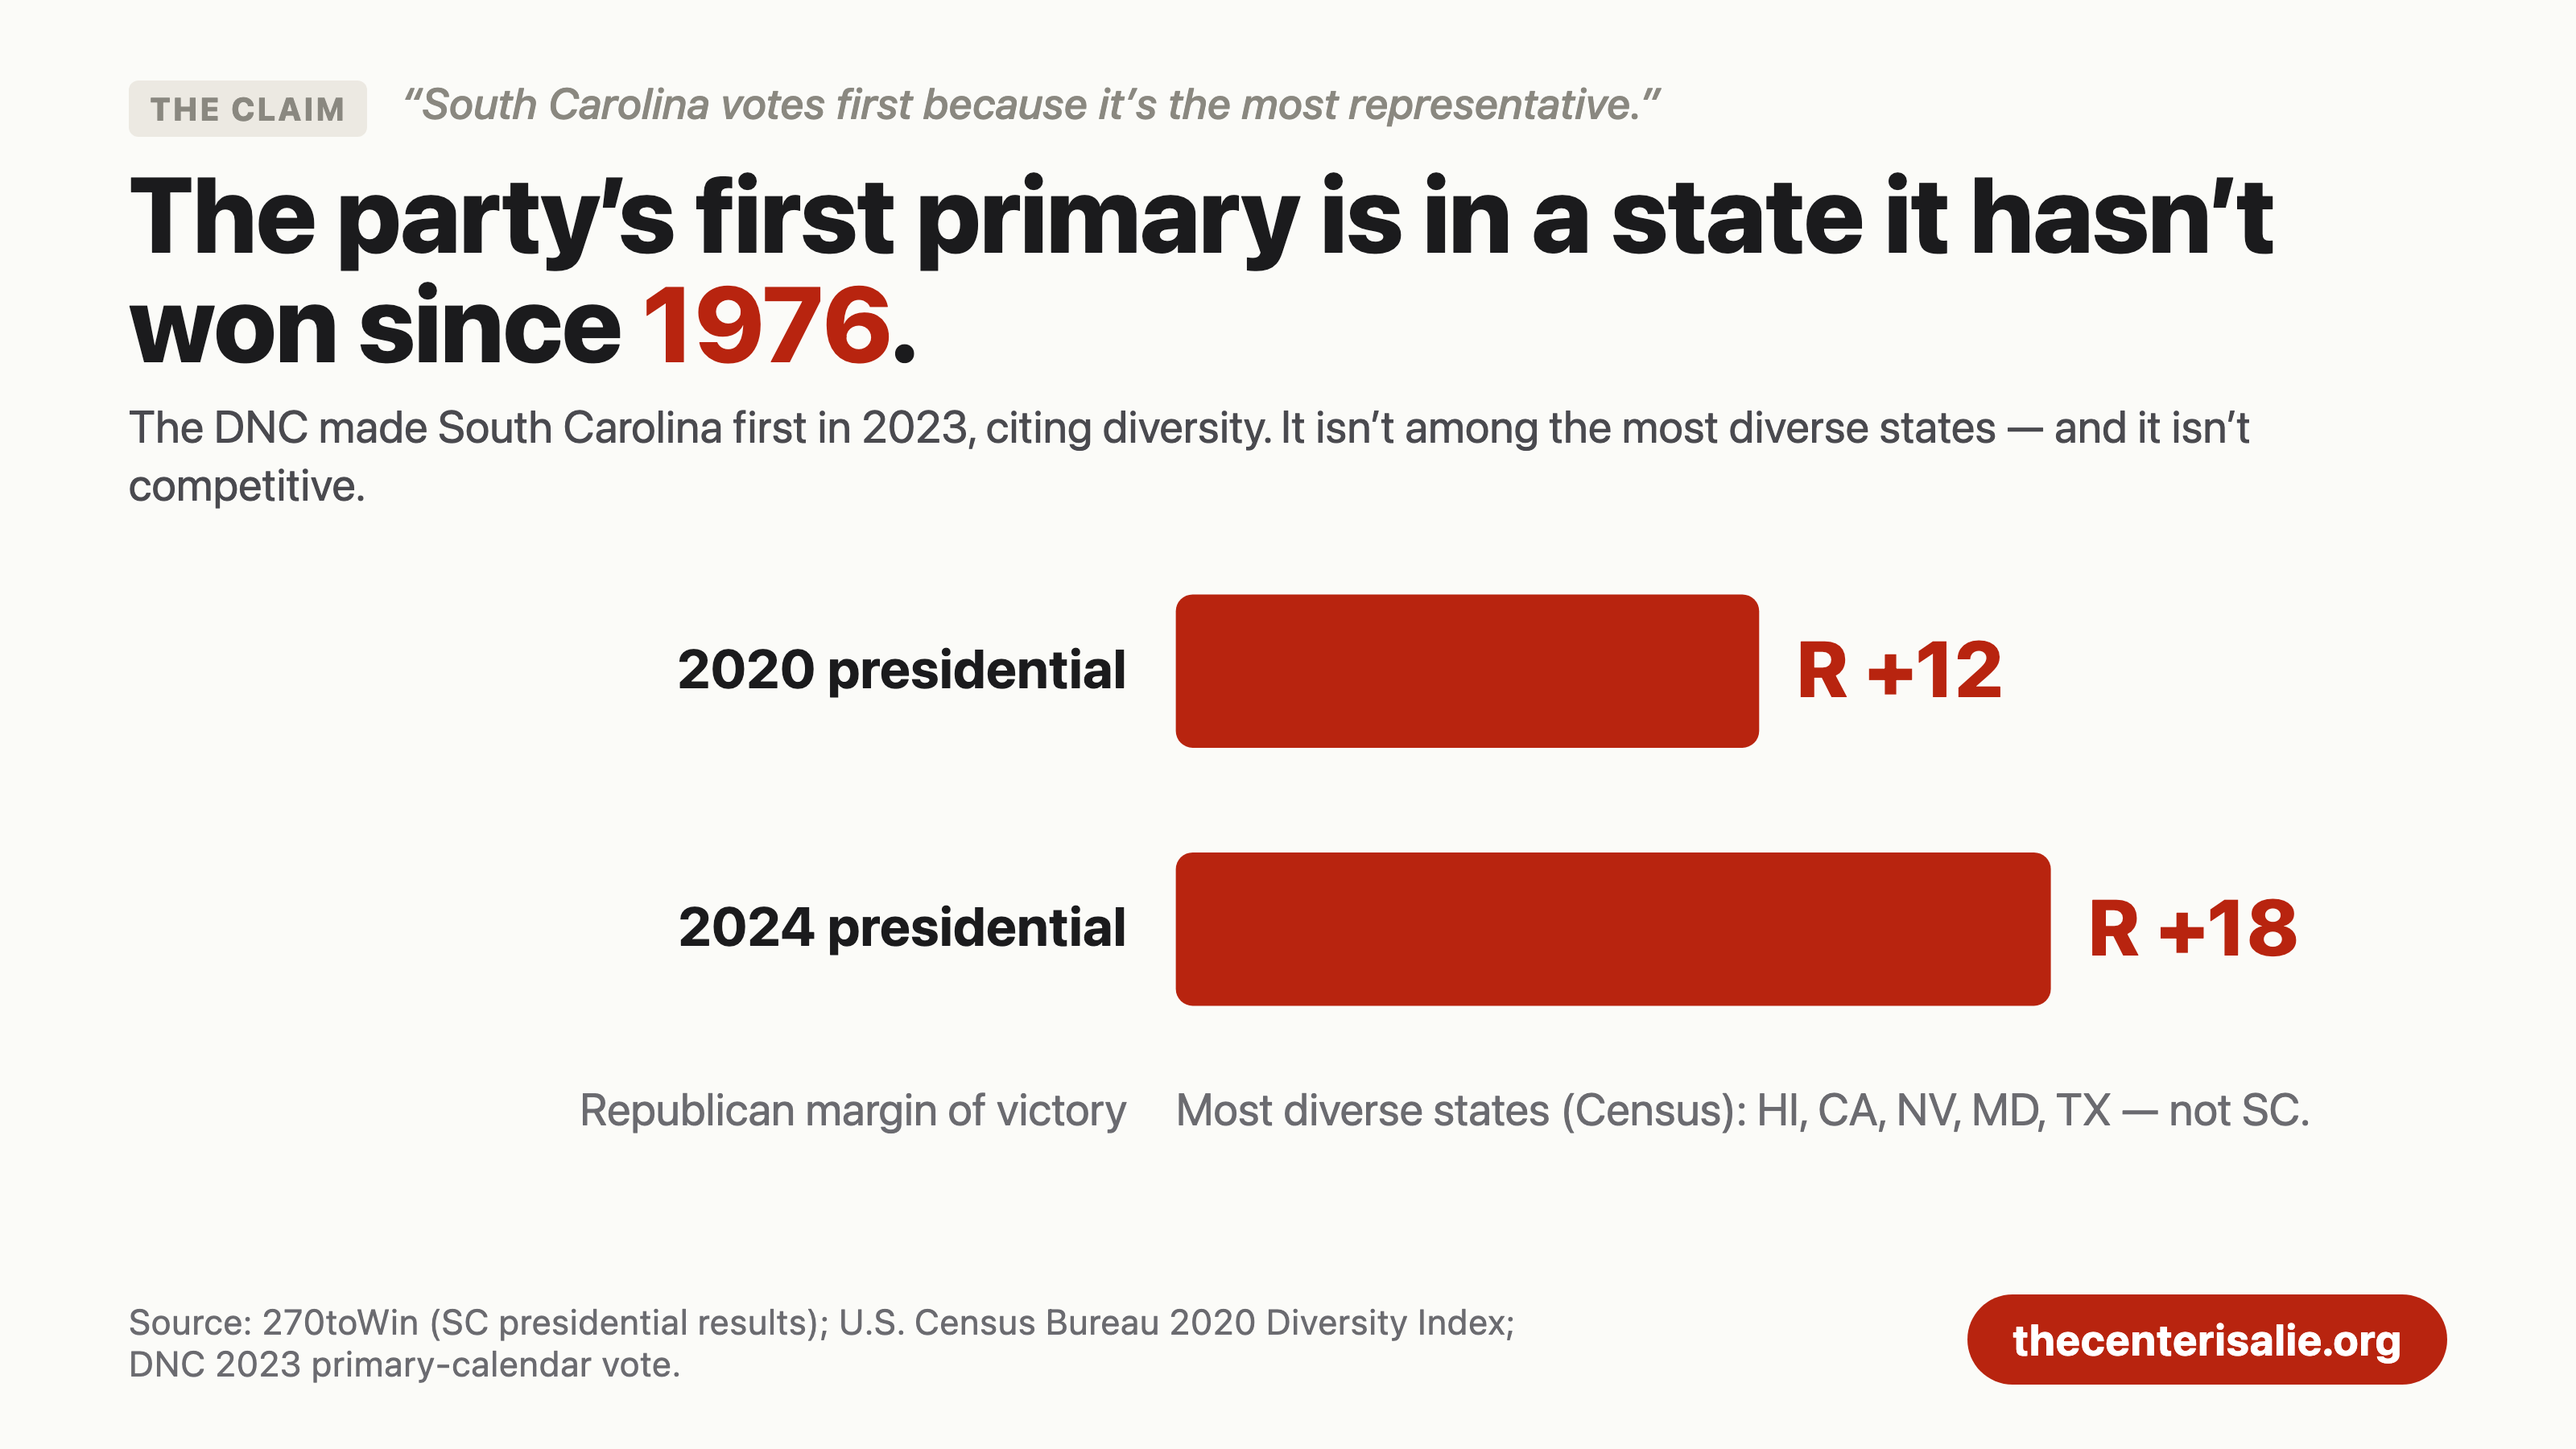
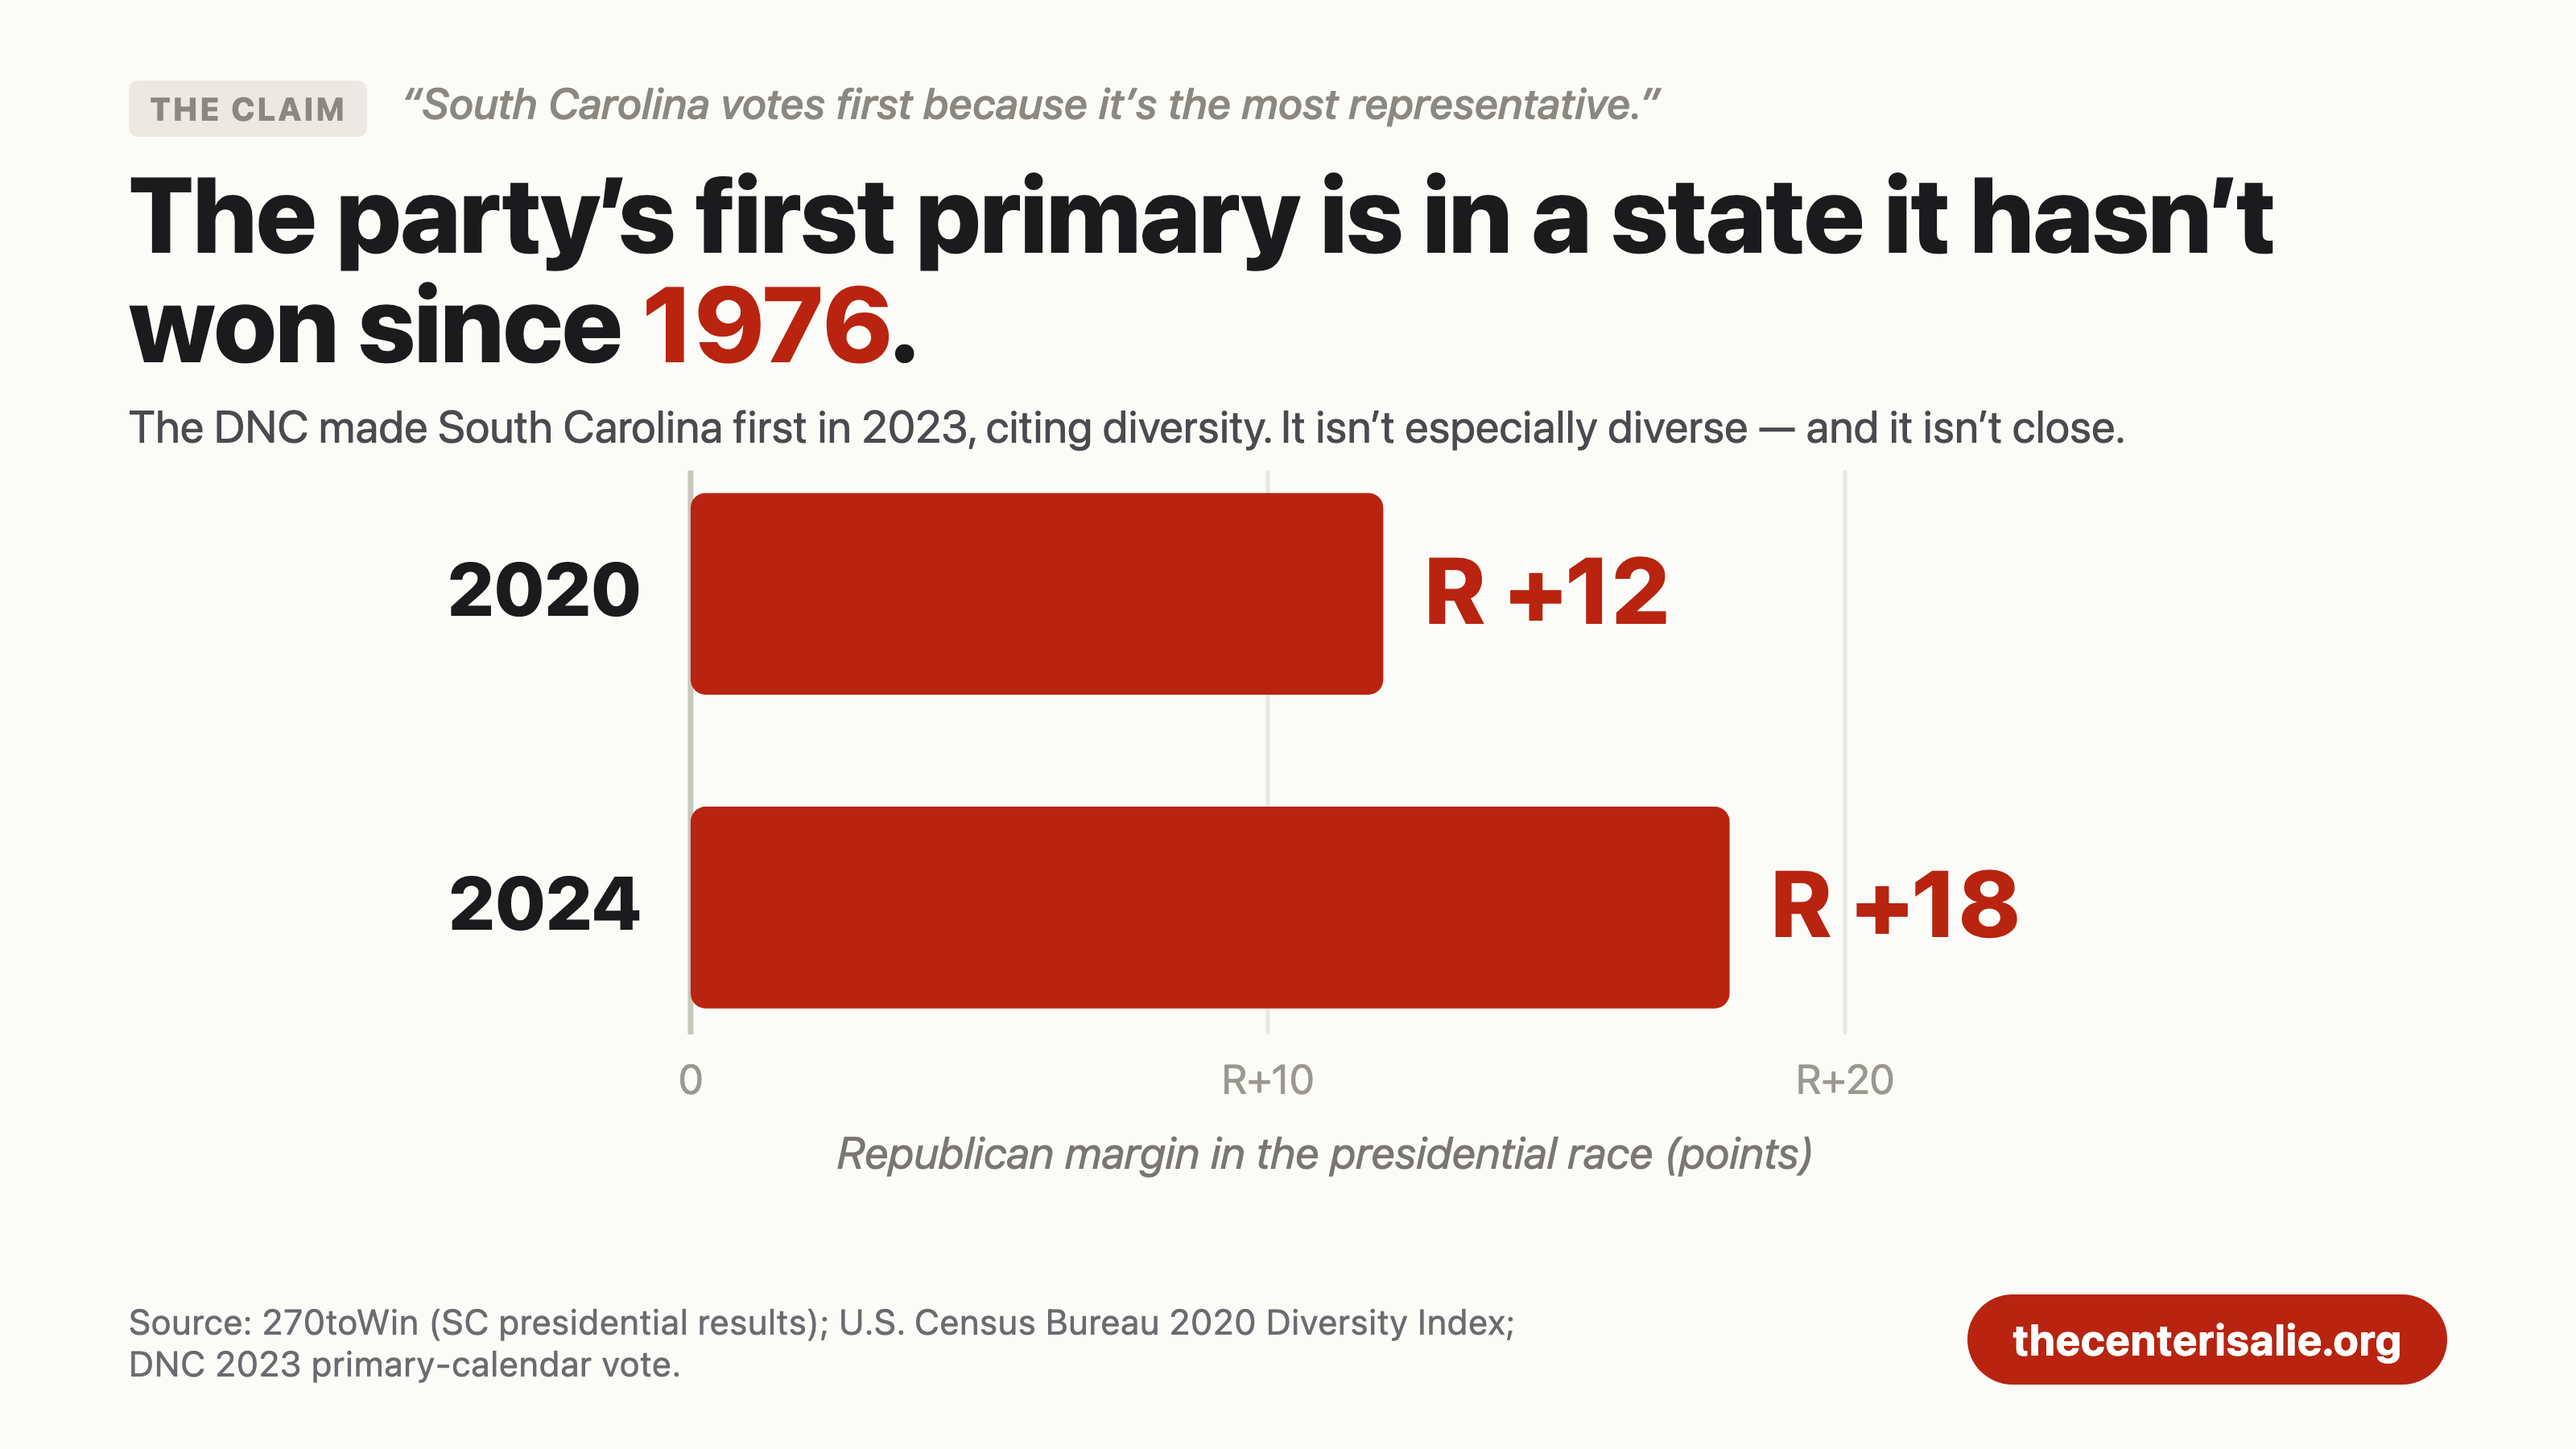
fix(og): rebuild authenticity as a labeled slope chart; fix sc caption
- authenticity: naked 0-4 decimals now sit on a real y-axis with a scale
  label; the crossing lines carry the flip.
- sc: drop the run-on baseline caption, label the axis as R-margin points,
  enlarge bars.

diff --git a/web/og-cards/chart-authenticity.html b/web/og-cards/chart-authenticity.html
@@ -3,14 +3,14 @@
 <body>
   <div class="chartcard">
     <div class="cc-claim"><span class="tag">The claim</span> &ldquo;Voters can tell who&rsquo;s honest &mdash; it&rsquo;s an objective read.&rdquo;</div>
-    <div class="cc-title">The &ldquo;honest&rdquo; candidate <span class="hl">flips</span> with the voter&rsquo;s own trust.</div>
-    <div class="cc-sub">2016 honesty ratings of the same two candidates &mdash; by whether the voter trusts the system.</div>
+    <div class="cc-title">Who looks &ldquo;honest&rdquo; <span class="hl">flips</span> with the voter&rsquo;s own trust in the system.</div>
+    <div class="cc-sub">2016 honesty ratings of the same two candidates, split by whether the voter trusts the system.</div>
 
-    <div class="cc-chart"><svg id="au" viewBox="0 0 1240 400" role="img"
-      aria-label="Low-trust voters rate Trump more honest (1.58 vs 0.54); high-trust voters rate Clinton more honest (1.77 vs 0.93). The lines cross."></svg></div>
+    <div class="cc-chart"><svg id="au" viewBox="0 0 1240 449" role="img"
+      aria-label="Low-trust voters rate Trump more honest than Clinton; high-trust voters rate Clinton more honest than Trump. The two lines cross."></svg></div>
 
     <div class="cc-foot">
-      <div class="cc-source">Source: ANES 2016; candidate &ldquo;is honest&rdquo; rating (0&ndash;4, higher = more), by trust tercile; weighted.</div>
+      <div class="cc-source">Source: ANES 2016; candidate &ldquo;is honest&rdquo; rating (0&ndash;4, higher = more honest), by trust tercile; weighted.</div>
       <div class="cc-btn">thecenterisalie.org</div>
     </div>
   </div>
@@ -19,27 +19,36 @@
     const NS = 'http://www.w3.org/2000/svg';
     const svg = document.getElementById('au');
     const el = (t, a) => { const n = document.createElementNS(NS, t); for (const k in a) n.setAttribute(k, a[k]); return n; };
-    const LX = 430, RX = 900, topY = 60, botY = 320, YMAX = 2.0;
+    const txt = (a, s) => { const t = el('text', a); t.textContent = s; svg.appendChild(t); return t; };
+
+    const LX = 470, RX = 900, topY = 56, botY = 360, YMAX = 2.0;
     const y = (v) => botY - v / YMAX * (botY - topY);
-    // axis posts
-    [[LX, 'Low-trust voters'], [RX, 'High-trust voters']].forEach(([px, lab]) => {
-      svg.appendChild(el('line', { x1: px, y1: topY - 10, x2: px, y2: botY, stroke: '#d9d6cd', 'stroke-width': 2 }));
-      const t = el('text', { x: px, y: botY + 36, 'text-anchor': 'middle', fill: '#6b6b70', 'font-size': 25, 'font-weight': 600 }); t.textContent = lab; svg.appendChild(t);
+
+    // y-axis with 0-2 ticks (scale runs 0-4; data sits in the bottom half)
+    svg.appendChild(el('line', { x1: 300, y1: topY - 6, x2: 300, y2: botY, stroke: '#d9d6cd', 'stroke-width': 2 }));
+    [0, 0.5, 1.0, 1.5, 2.0].forEach((v) => {
+      svg.appendChild(el('line', { x1: 300, y1: y(v), x2: RX + 30, y2: y(v), stroke: '#eeece6', 'stroke-width': v === 0 ? 3 : 1.5 }));
+      txt({ x: 286, y: y(v) + 8, 'text-anchor': 'end', fill: '#9a988f', 'font-size': 22 }, v.toFixed(1));
     });
-    const draw = (name, lv, rv, col) => {
-      svg.appendChild(el('line', { x1: LX, y1: y(lv), x2: RX, y2: y(rv), stroke: col, 'stroke-width': 5 }));
-      [[LX, lv, 'end', -20], [RX, rv, 'start', 20]].forEach(([px, v, anc, dx]) => {
-        svg.appendChild(el('circle', { cx: px, cy: y(v), r: 10, fill: col, stroke: '#fbfbf8', 'stroke-width': 3 }));
-        const t = el('text', { x: px + dx, y: y(v) + 8, 'text-anchor': anc, fill: col, 'font-size': 28, 'font-weight': 800 }); t.textContent = v.toFixed(2); svg.appendChild(t);
+    txt({ x: 60, y: (topY + botY) / 2, 'text-anchor': 'middle', fill: '#8a887f', 'font-size': 22, 'font-style': 'italic', transform: `rotate(-90 60 ${(topY + botY) / 2})` }, 'rated “is honest” (0 = no … 4 = yes)');
+
+    // group posts
+    [[LX, 'Low-trust voters'], [RX, 'High-trust voters']].forEach(([px, lab]) => {
+      svg.appendChild(el('line', { x1: px, y1: topY - 6, x2: px, y2: botY, stroke: '#d9d6cd', 'stroke-width': 2 }));
+      txt({ x: px, y: botY + 38, 'text-anchor': 'middle', fill: '#6b6b70', 'font-size': 26, 'font-weight': 700 }, lab);
+    });
+
+    const draw = (lv, rv, col) => {
+      svg.appendChild(el('line', { x1: LX, y1: y(lv), x2: RX, y2: y(rv), stroke: col, 'stroke-width': 6 }));
+      [[LX, lv, 'end', -18], [RX, rv, 'start', 18]].forEach(([px, v, anc, dx]) => {
+        svg.appendChild(el('circle', { cx: px, cy: y(v), r: 11, fill: col, stroke: '#fbfbf8', 'stroke-width': 3 }));
+        txt({ x: px + dx, y: y(v) + 8, 'text-anchor': anc, fill: col, 'font-size': 30, 'font-weight': 800 }, v.toFixed(2));
       });
     };
-    draw('Trump', 1.58, 0.93, '#b8240f');
-    draw('Clinton', 0.54, 1.77, '#2c5b9c');
-    // candidate labels near their high-value end
-    const cl = (txt, px, v, anc, col, dx) => { const t = el('text', { x: px + dx, y: y(v) - 20, 'text-anchor': anc, fill: col, 'font-size': 27, 'font-weight': 800 }); t.textContent = txt; svg.appendChild(t); };
-    cl('Trump', LX, 1.58, 'end', '#b8240f', -20);
-    cl('Clinton', RX, 1.77, 'start', '#2c5b9c', 20);
-    // axis note
-    const t = el('text', { x: (LX + RX) / 2, y: 40, 'text-anchor': 'middle', fill: '#8a887f', 'font-size': 22 }); t.textContent = 'rated more honest ↑'; svg.appendChild(t);
+    draw(1.58, 0.93, '#b8240f'); // Trump
+    draw(0.54, 1.77, '#2c5b9c'); // Clinton
+
+    txt({ x: LX - 18, y: y(1.58) - 22, 'text-anchor': 'end', fill: '#b8240f', 'font-size': 29, 'font-weight': 800 }, 'Trump');
+    txt({ x: RX + 18, y: y(1.77) - 22, 'text-anchor': 'start', fill: '#2c5b9c', 'font-size': 29, 'font-weight': 800 }, 'Clinton');
   </script>
 </body></html>

diff --git a/web/og-cards/chart-sc.html b/web/og-cards/chart-sc.html
@@ -4,10 +4,10 @@
   <div class="chartcard">
     <div class="cc-claim"><span class="tag">The claim</span> &ldquo;South Carolina votes first because it&rsquo;s the most representative.&rdquo;</div>
     <div class="cc-title">The party&rsquo;s first primary is in a state it hasn&rsquo;t won since <span class="hl">1976</span>.</div>
-    <div class="cc-sub">The DNC made South Carolina first in 2023, citing diversity. It isn&rsquo;t among the most diverse states &mdash; and it isn&rsquo;t competitive.</div>
+    <div class="cc-sub">The DNC made South Carolina first in 2023, citing diversity. It isn&rsquo;t especially diverse &mdash; and it isn&rsquo;t close.</div>
 
-    <div class="cc-chart"><svg id="sc" viewBox="0 0 1240 372" role="img"
-      aria-label="South Carolina presidential margin: Republican by 12 points in 2020 and 18 in 2024"></svg></div>
+    <div class="cc-chart"><svg id="sc" viewBox="0 0 1240 449" role="img"
+      aria-label="South Carolina presidential margin: Republican by 12 points in 2020 and 18 points in 2024"></svg></div>
 
     <div class="cc-foot">
       <div class="cc-source">Source: 270toWin (SC presidential results); U.S. Census Bureau 2020 Diversity Index; DNC 2023 primary-calendar vote.</div>
@@ -19,20 +19,29 @@
     const NS = 'http://www.w3.org/2000/svg';
     const svg = document.getElementById('sc');
     const el = (t, a) => { const n = document.createElementNS(NS, t); for (const k in a) n.setAttribute(k, a[k]); return n; };
+    const txt = (a, s) => { const t = el('text', a); t.textContent = s; svg.appendChild(t); return t; };
+
     const rows = [
-      { name: '2020 presidential', v: 12 },
-      { name: '2024 presidential', v: 18 },
+      { name: '2020', v: 12 },
+      { name: '2024', v: 18 },
     ];
-    const X0 = 560, X1 = 1080, VMAX = 20, sc = (X1 - X0) / VMAX;
-    const barH = 82, step = 138, y0 = 20;
+    const X0 = 300, X1 = 980, VMAX = 22, sc = (X1 - X0) / VMAX;
+    const barH = 108, step = 168, y0 = 20;
+    const axisBot = y0 + step + barH + 14;
+
+    for (let v = 0; v <= 20; v += 10) {
+      const gx = X0 + v * sc;
+      svg.appendChild(el('line', { x1: gx, y1: y0 - 12, x2: gx, y2: axisBot, stroke: v === 0 ? '#c9c6bd' : '#e8e6e0', 'stroke-width': v === 0 ? 3 : 2 }));
+      txt({ x: gx, y: axisBot + 32, 'text-anchor': 'middle', fill: '#9a988f', 'font-size': 22 }, v === 0 ? '0' : 'R+' + v);
+    }
+    txt({ x: (X0 + X1) / 2, y: axisBot + 72, 'text-anchor': 'middle', fill: '#7a7772', 'font-size': 24, 'font-style': 'italic' }, 'Republican margin in the presidential race (points)');
+
     rows.forEach((r, i) => {
       const yTop = y0 + i * step, mid = yTop + barH / 2;
-      const nm = el('text', { x: X0 - 26, y: mid + 9, 'text-anchor': 'end', fill: '#1b1b1d', 'font-size': 29, 'font-weight': 700 }); nm.textContent = r.name; svg.appendChild(nm);
+      txt({ x: X0 - 26, y: mid + 12, 'text-anchor': 'end', fill: '#1b1b1d', 'font-size': 40, 'font-weight': 800 }, r.name);
       const w = r.v * sc;
-      svg.appendChild(el('rect', { x: X0, y: yTop, width: w, height: barH, rx: 9, fill: '#b8240f' }));
-      const val = el('text', { x: X0 + w + 20, y: mid + 14, fill: '#b8240f', 'font-size': 42, 'font-weight': 800 }); val.textContent = 'R +' + r.v; svg.appendChild(val);
+      svg.appendChild(el('rect', { x: X0, y: yTop, width: w, height: barH, rx: 8, fill: '#b8240f' }));
+      txt({ x: X0 + w + 22, y: mid + 16, fill: '#b8240f', 'font-size': 50, 'font-weight': 800 }, 'R +' + r.v);
     });
-    const cap = el('text', { x: X0 - 26, y: y0 + 2 * step + 8, 'text-anchor': 'end', fill: '#6b6b70', 'font-size': 24 }); cap.textContent = 'Republican margin of victory'; svg.appendChild(cap);
-    const cap2 = el('text', { x: X0, y: y0 + 2 * step + 8, 'text-anchor': 'start', fill: '#6b6b70', 'font-size': 24 }); cap2.textContent = 'Most diverse states (Census): HI, CA, NV, MD, TX — not SC.'; svg.appendChild(cap2);
   </script>
 </body></html>
